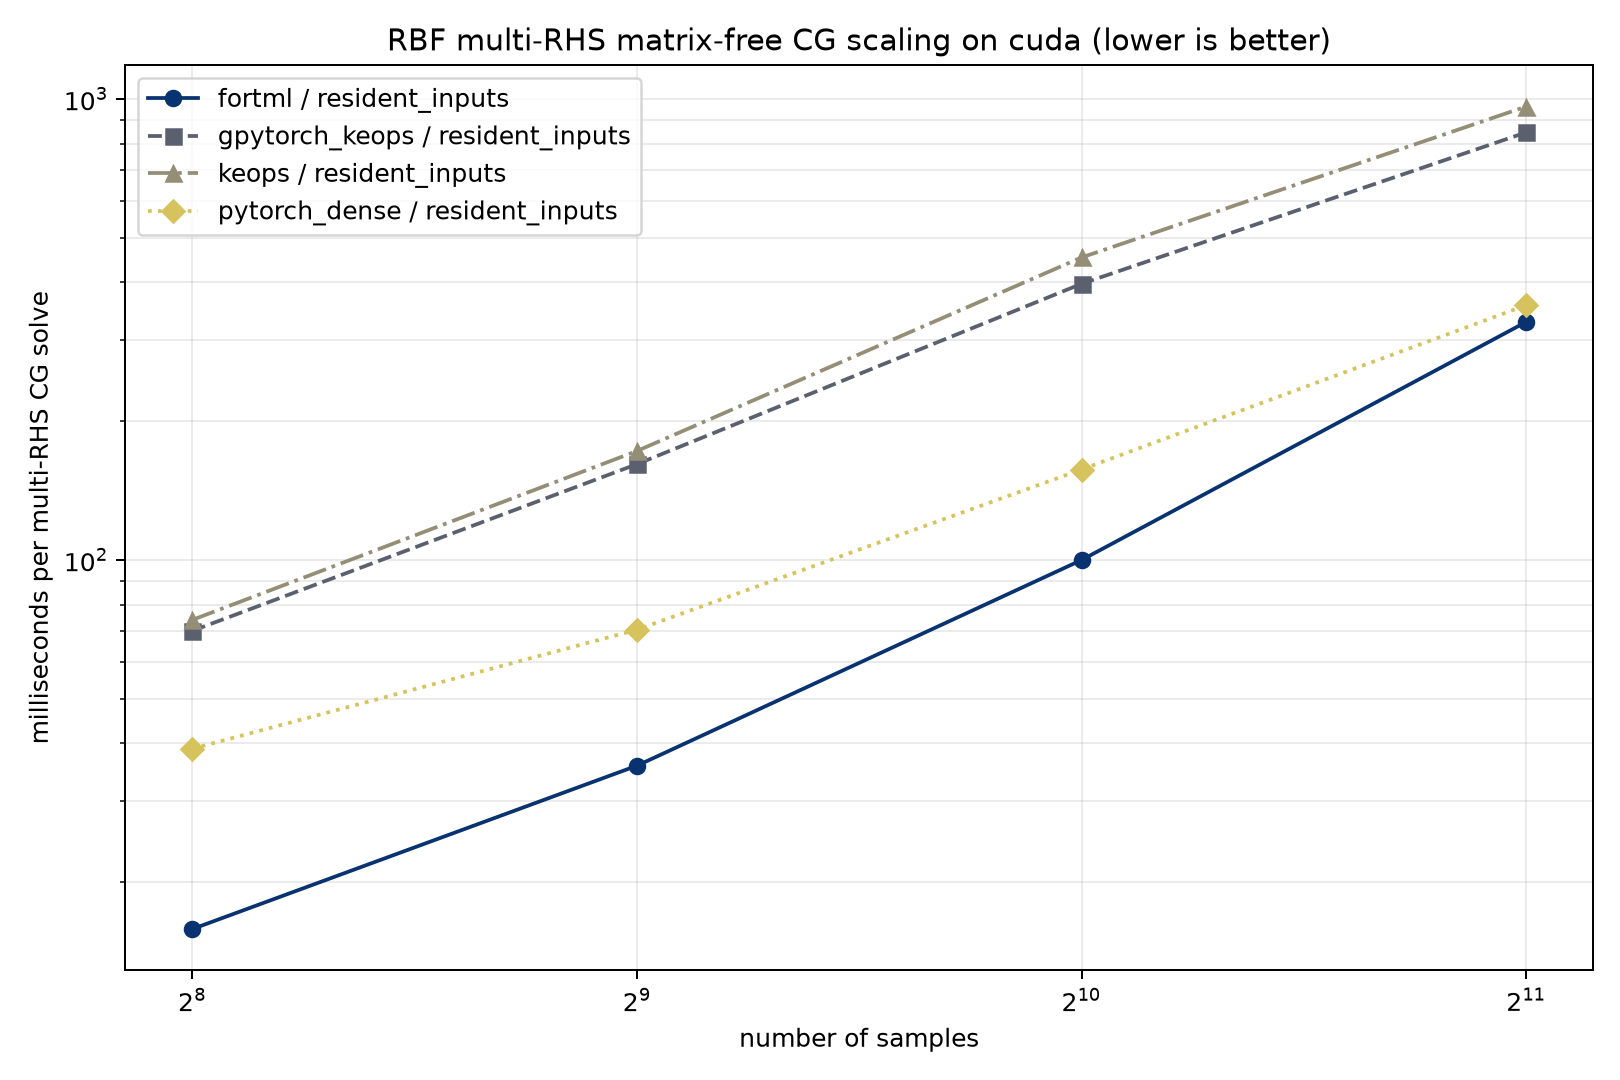
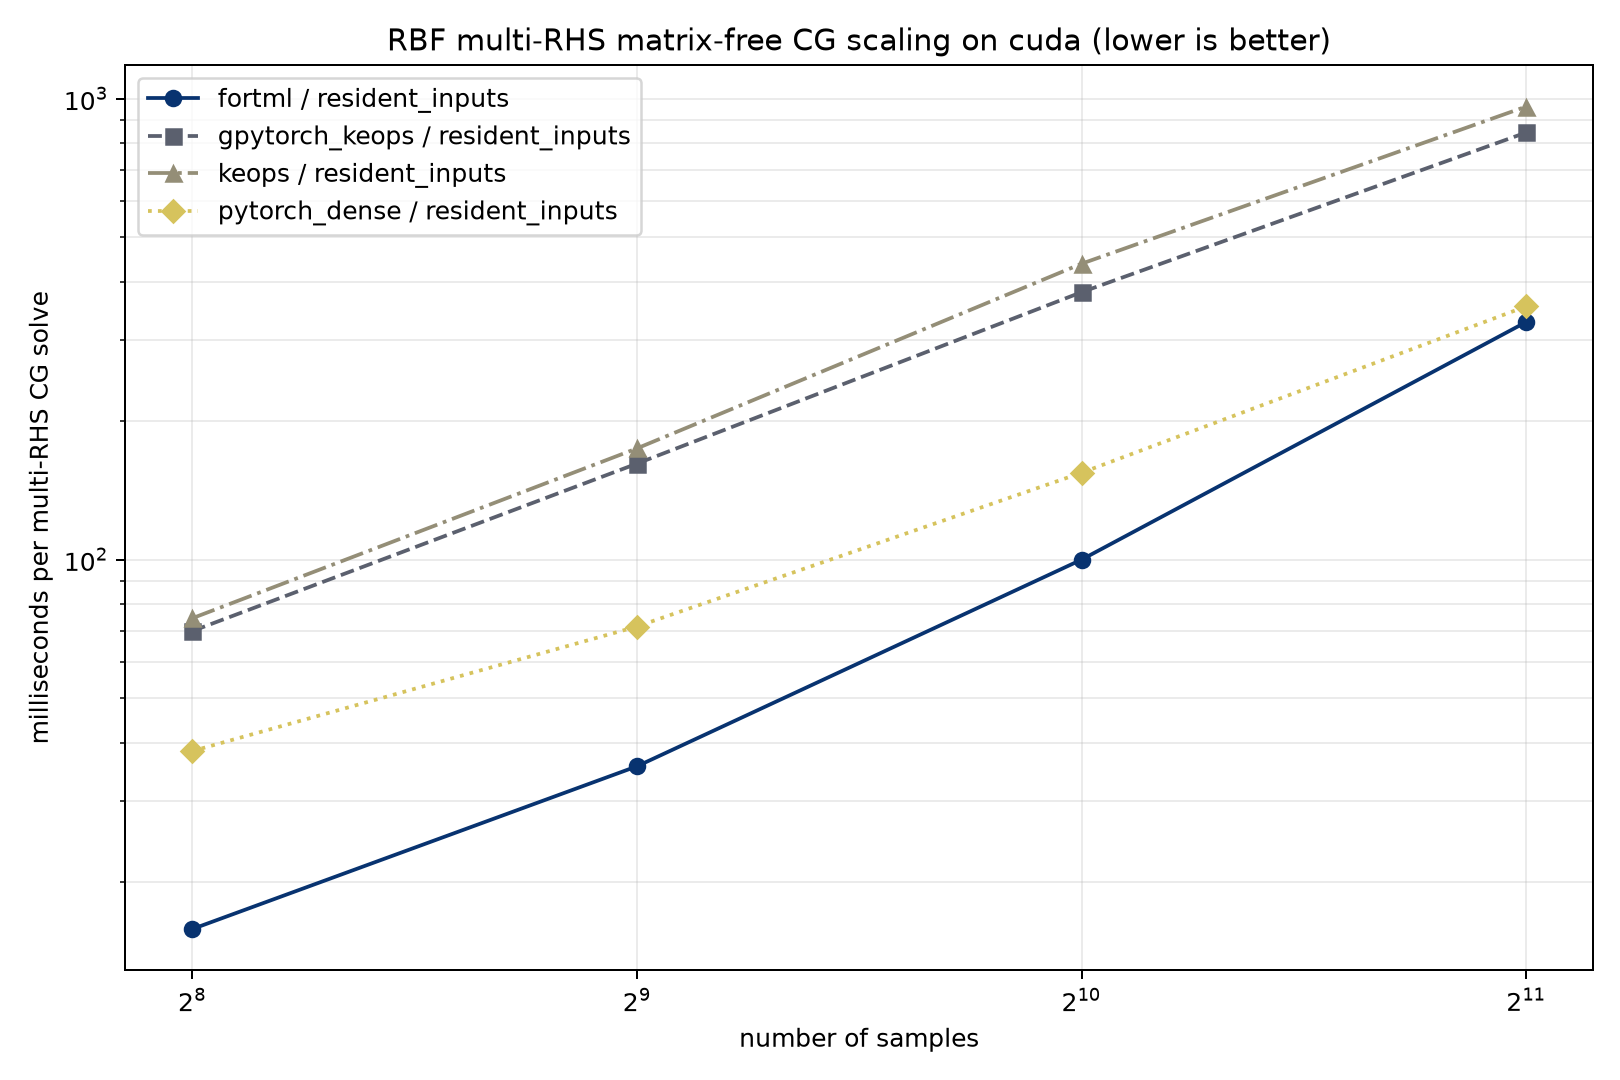
Refresh workspace-resident scaling evidence

diff --git a/results/rbf_cg_multi_scaling.md b/results/rbf_cg_multi_scaling.md
@@ -16,24 +16,36 @@ At 2048 samples, the default OpenACC lane records:
 
 | device | FortML | dense PyTorch | KeOps | GPyTorch-KeOps |
 | --- | ---: | ---: | ---: | ---: |
-| CPU, seconds | 0.834 | 0.158 | 0.867 | 0.718 |
-| CUDA, seconds | 0.576 | 0.357 | 0.962 | 0.846 |
+| CPU, seconds | 0.848 | 0.127 | 0.863 | 0.728 |
+| CUDA, seconds | 0.576 | 0.354 | 0.957 | 0.843 |
 
 The refreshed native CUDA lane records 0.328 seconds at 2048 samples. It is
 faster than dense PyTorch, KeOps, and GPyTorch-KeOps at that endpoint. Across
 all four tested GPU sizes it remains within the 30 percent GPyTorch target. The
-native CUDA GPU plot is published at https://box.sloppy.at/01752.png. The
-default OpenACC GPU plot is published at https://box.sloppy.at/7976b.png. CPU
-plots are https://box.sloppy.at/802a2.png and https://box.sloppy.at/10733.png
-for the native and default lanes.
+native CUDA GPU plot is published at https://box.sloppy.at/abbec.png.
 
-The raw records are `rbf_cg_multi_scaling.csv` and
-`native_cuda/rbf_cg_multi_scaling.csv`. The source revision is `fortml`
-`e0c9a85` with `fortnum` `5bce667`. The native CUDA run uses
-`FORTML_NATIVE_CUDA=1` and the shared neighbor-tile matmat kernel. Nsight
-Compute counters remain unavailable under the cluster's `ERR_NVGPUCTRPERM`
-restriction, so this record makes no occupancy or memory-counter claim.
+The default OpenACC GPU plot is published at https://box.sloppy.at/a5a8d.png.
+
+The native CUDA CPU plot is published at https://box.sloppy.at/c94e8.png.
+
+The default OpenACC CPU plot is published at https://box.sloppy.at/c678e.png.
+
+The default raw record is `rbf_cg_multi_scaling.csv`.
+
+The native CUDA raw record is `native_cuda/rbf_cg_multi_scaling.csv`.
+
+The source revision is `fortml` `a1a40ff`.
+
+It uses `fortnum` `5bce667`.
+
+The native CUDA run uses `FORTML_NATIVE_CUDA=1` and the shared neighbor-tile
+matmat kernel. Nsight Compute counters remain unavailable under the cluster's
+`ERR_NVGPUCTRPERM` restriction, so this record makes no occupancy or
+memory-counter claim.
+
+Both FortML lanes use the operator-owned multi-RHS Krylov workspace lifetime.
+The raw metadata records this as `workspace_residency`.
 
 The native GPU curve still has a higher local asymptotic slope than the
-GPyTorch-KeOps curve. Block or Nystrom preconditioning and a persistent
-Krylov-workspace API remain the next scaling work.
+GPyTorch-KeOps curve. Block or Nystrom preconditioning and larger-size runs
+remain the next scaling work.
